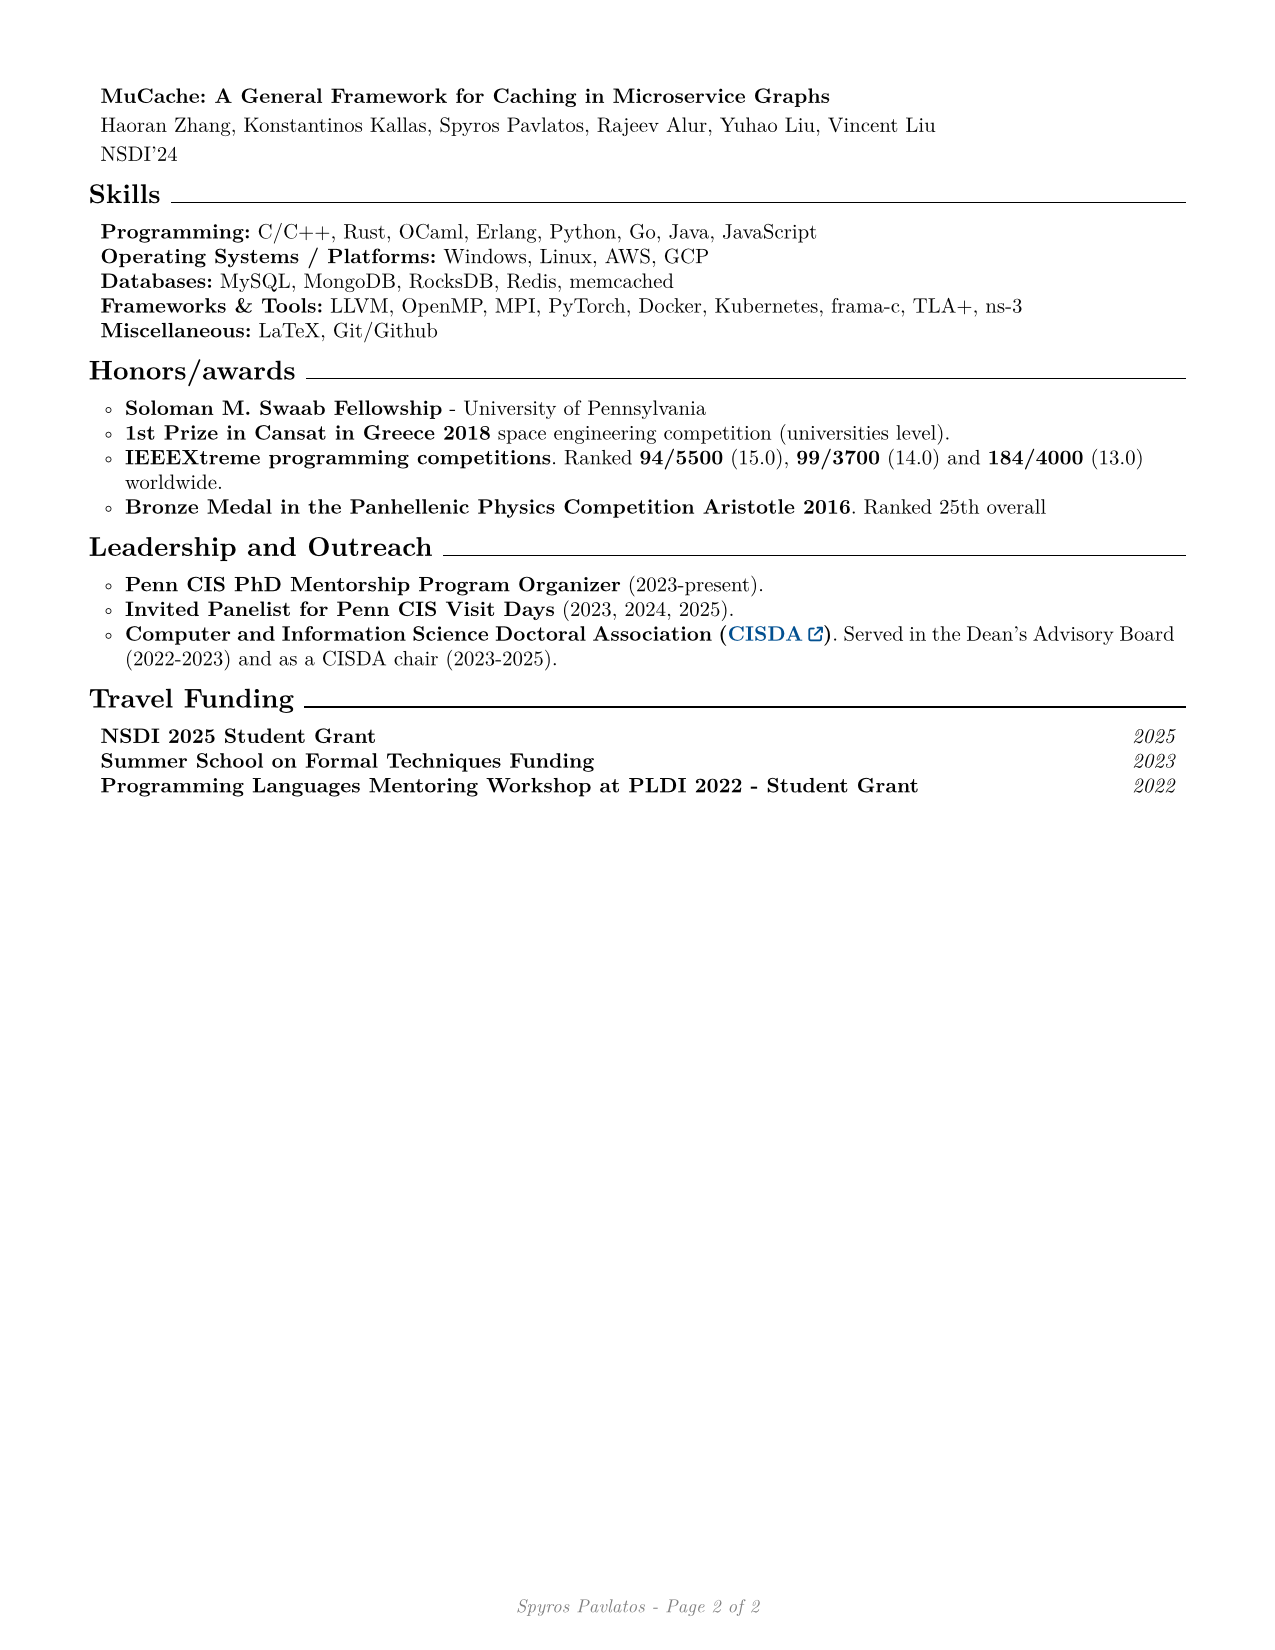
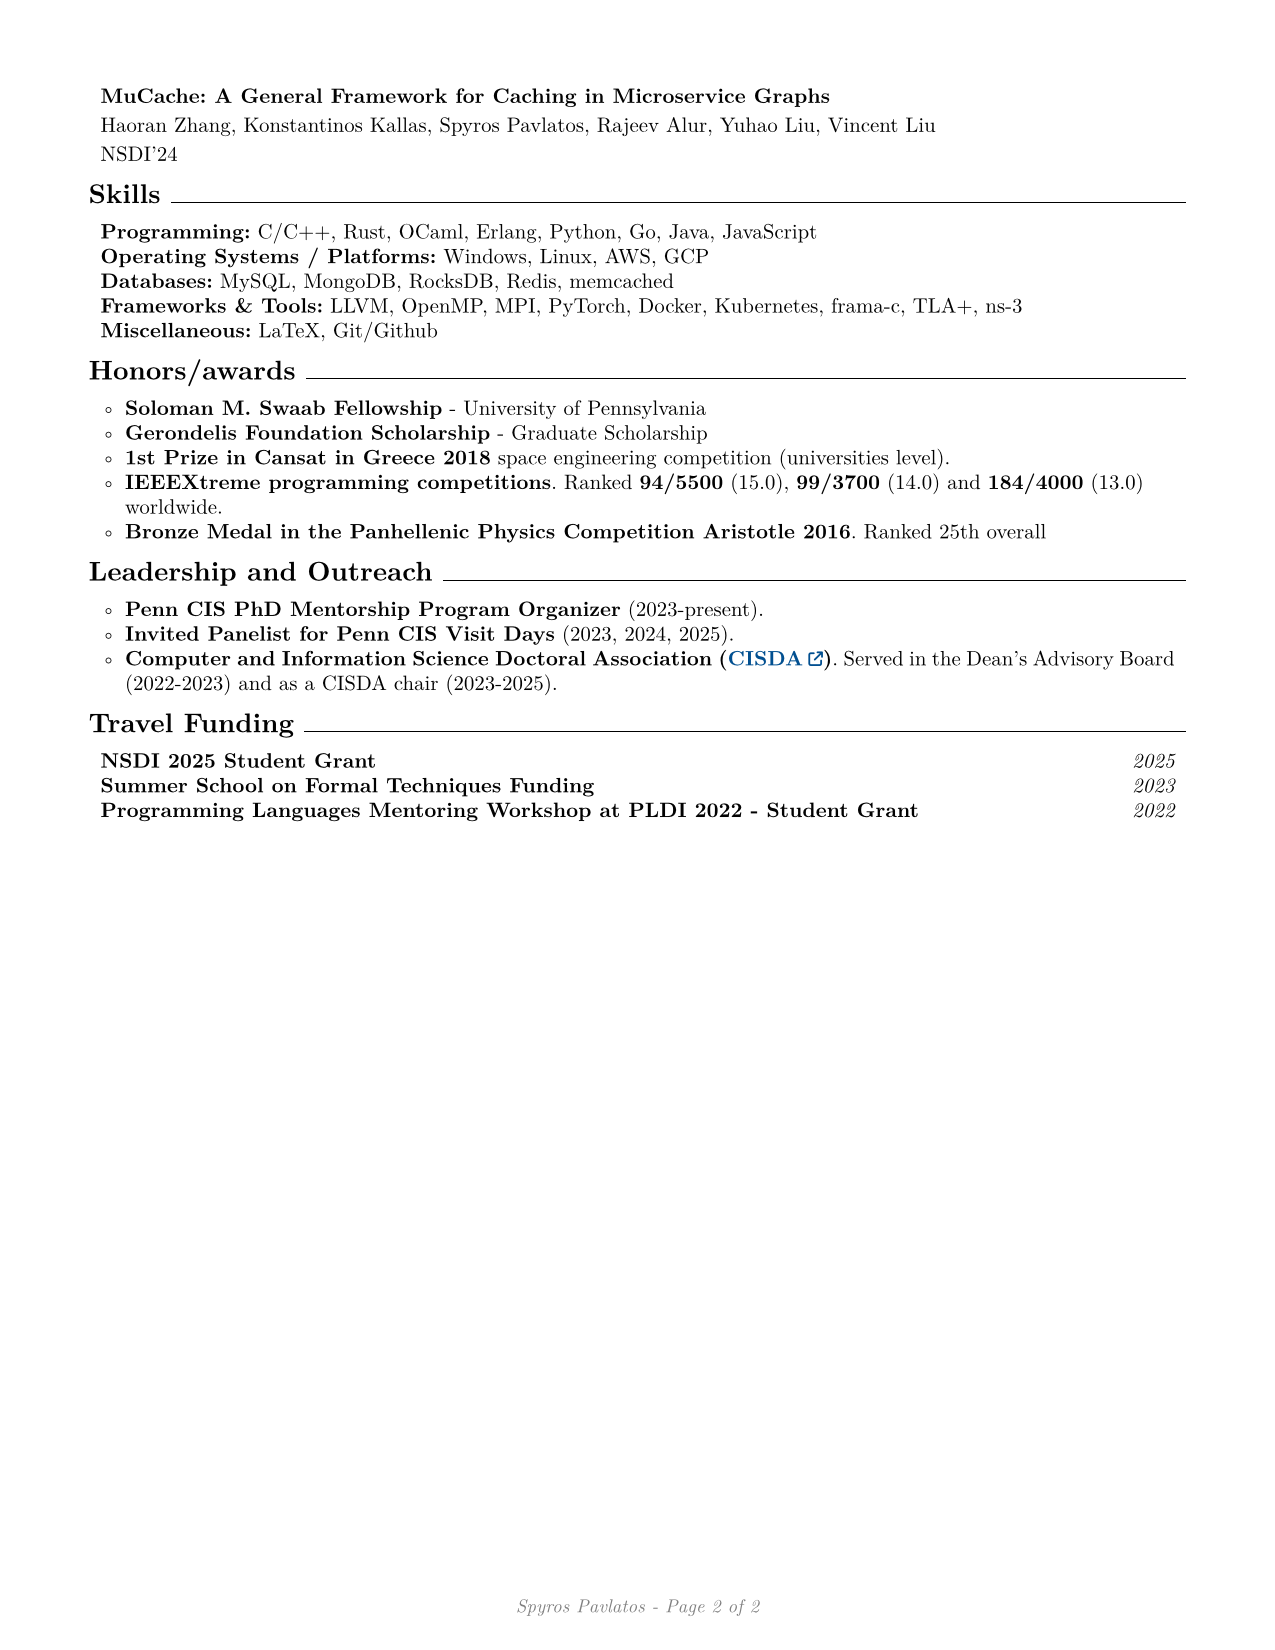
Gerondelis Scholarship

Changed region(s): [[0.0612, 0.2473, 0.9176, 0.4945], [0.8871, 0.4327, 0.9176, 0.4945]]

diff --git a/rendercv_output/Spyros_Pavlatos_CV.html b/rendercv_output/Spyros_Pavlatos_CV.html
@@ -129,6 +129,7 @@
         <h1>Honors/awards</h1>
         <ul>
         <li><strong>Soloman M. Swaab Fellowship</strong> - University of Pennsylvania</li>
+        <li><strong>Gerondelis Foundation Scholarship</strong> - Graduate Scholarship</li>
         <li><strong>1st Prize in Cansat in Greece 2018</strong> space engineering competition (universities level).</li>
         <li><strong>IEEEXtreme programming competitions</strong>. Ranked <strong>94/5500</strong> (15.0), <strong>99/3700</strong> (14.0) and <strong>184/4000</strong> (13.0) worldwide.</li>
         <li><strong>Bronze Medal in the Panhellenic Physics Competition Aristotle 2016</strong>. Ranked 25th overall</li>

diff --git a/rendercv_output/Spyros_Pavlatos_CV.md b/rendercv_output/Spyros_Pavlatos_CV.md
@@ -91,6 +91,7 @@
 # Honors/awards
 
 - **Soloman M. Swaab Fellowship** - University of Pennsylvania
+- **Gerondelis Foundation Scholarship** - Graduate Scholarship
 - **1st Prize in Cansat in Greece 2018** space engineering competition (universities level).
 - **IEEEXtreme programming competitions**. Ranked **94/5500** (15.0), **99/3700** (14.0) and **184/4000** (13.0) worldwide.
 - **Bronze Medal in the Panhellenic Physics Competition Aristotle 2016**. Ranked 25th overall
